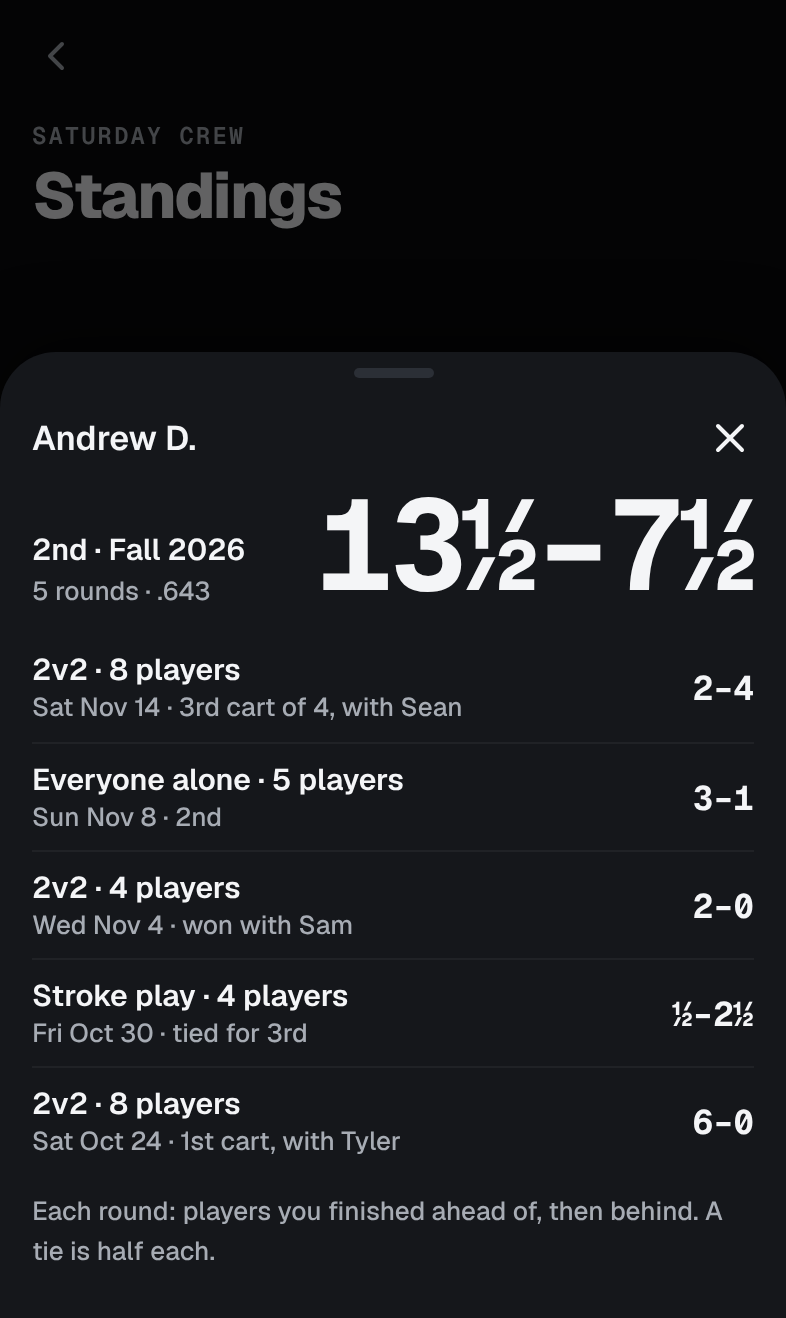
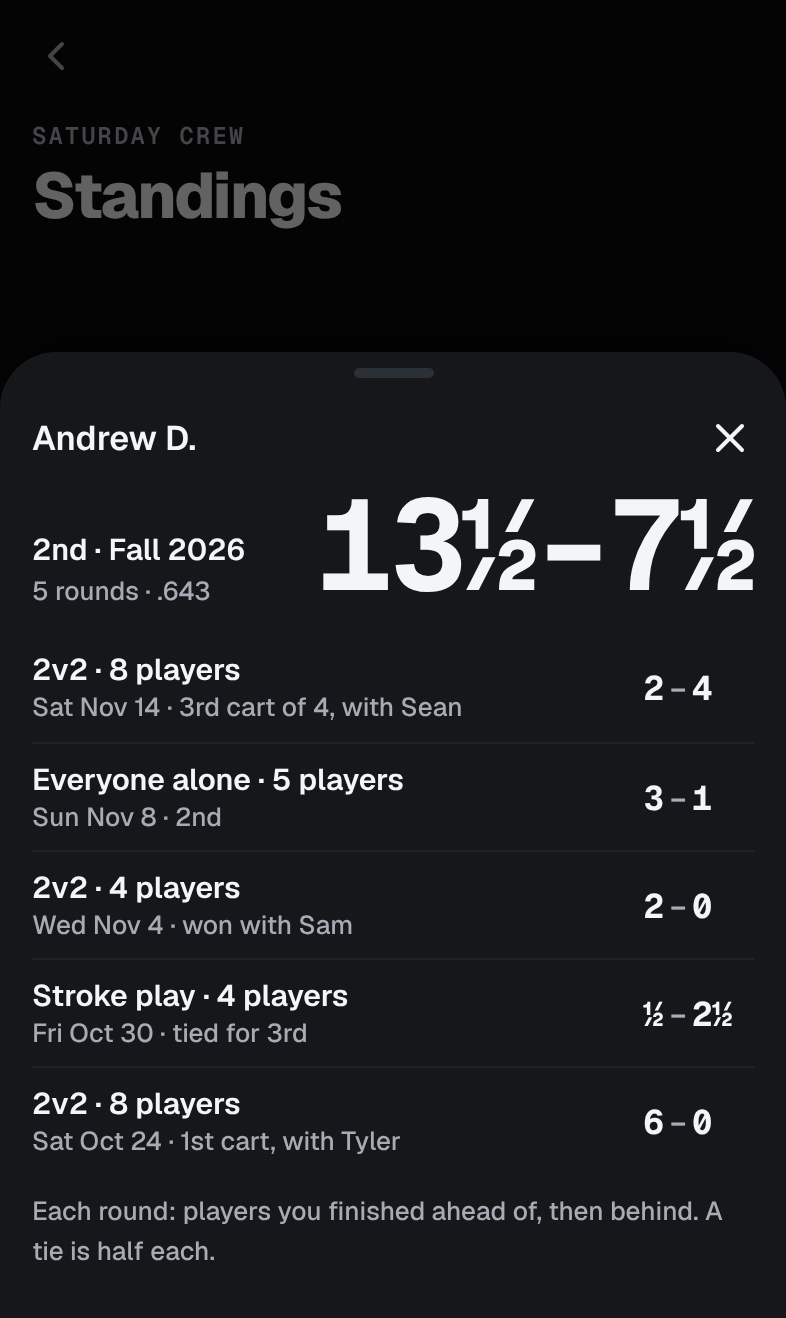
Season standings mockups: records line up on the dash
Claude-Session: https://claude.ai/code/session_01E1LafEeuNW7uYNVp4cMhcr

diff --git a/docs/design/features/031-one-board/mockups/kit.css b/docs/design/features/031-one-board/mockups/kit.css
@@ -706,3 +706,11 @@ svg.i.s20 { width: 20px; height: 20px; } svg.i.s16 { width: 16px; height: 16px; 
 .rrow .rec { font: 700 17px var(--font-mono); color: var(--text); }
 .cutl.q { color: var(--text-muted); }
 .cutl.q::before, .cutl.q::after { border-top-color: var(--line); opacity: 1; }
+/* a record lines up on its dash: wins right-aligned, losses left-aligned */
+.rec3 { display: grid; grid-template-columns: 1fr 10px 1fr; column-gap: 2px; }
+.rec3 i { font-style: normal; text-align: right; }
+.rec3 i:last-child { text-align: left; }
+.rec3 u { text-decoration: none; text-align: center; color: var(--text-muted); font-weight: 500; }
+.ptab.stand .th, .ptab.stand .tr { grid-template-columns: 28px minmax(0, 1fr) 36px 88px 50px; }
+.ptab.stand .th span:nth-child(4) { text-align: center; }
+.rrow .rec.rec3 { width: 76px; }

diff --git a/docs/design/features/031-one-board/mockups/kit-031.css b/docs/design/features/031-one-board/mockups/kit-031.css
@@ -314,3 +314,11 @@
 .rrow .rec { font: 700 17px var(--font-mono); color: var(--text); }
 .cutl.q { color: var(--text-muted); }
 .cutl.q::before, .cutl.q::after { border-top-color: var(--line); opacity: 1; }
+/* a record lines up on its dash: wins right-aligned, losses left-aligned */
+.rec3 { display: grid; grid-template-columns: 1fr 10px 1fr; column-gap: 2px; }
+.rec3 i { font-style: normal; text-align: right; }
+.rec3 i:last-child { text-align: left; }
+.rec3 u { text-decoration: none; text-align: center; color: var(--text-muted); font-weight: 500; }
+.ptab.stand .th, .ptab.stand .tr { grid-template-columns: 28px minmax(0, 1fr) 36px 88px 50px; }
+.ptab.stand .th span:nth-child(4) { text-align: center; }
+.rrow .rec.rec3 { width: 76px; }
